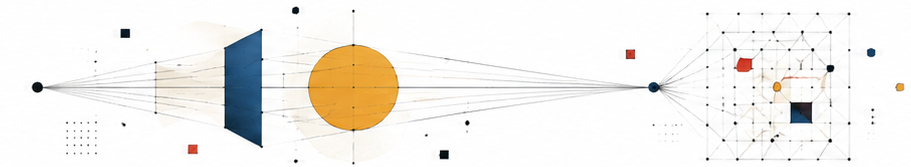
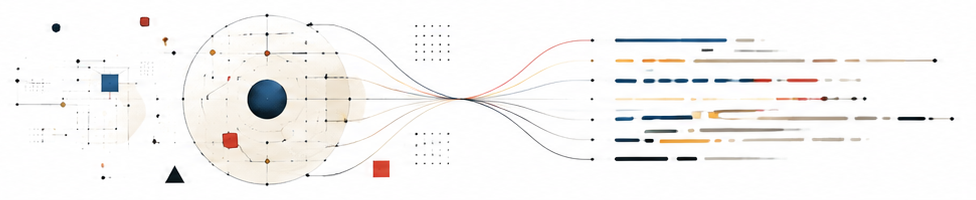
wip

diff --git a/public/css/baseline.css b/public/css/baseline.css
@@ -1,4 +1,4 @@
-/* code-from-spec: ROOT/design/baseline@kC23xGF0SLWkZl5enhkrfUVafqU */
+/* code-from-spec: ROOT/design/baseline@hGOmydZ3eba9B2Kl2lUZ4dQ_2As */
 
 :root {
   --color-text: #1a1a1a;
@@ -32,7 +32,7 @@ h3,
 h4,
 h5,
 h6 {
-  margin-top: 1.2em;
+  margin-top: 1em;
   margin-bottom: 0.5em;
   line-height: 1.3;
 }

diff --git a/code-from-spec/design/default/template/_node.md b/code-from-spec/design/default/template/_node.md
@@ -30,6 +30,7 @@ parts vary.
       <nav>
         <a href="/rationale">Rationale</a>
         <a href="/blog">Blog</a>
+        <a href="/license">License</a>
         <a href="https://github.com/CodeFromSpec" target="_blank" rel="noopener">GitHub</a>
       </nav>
     </div>
@@ -41,17 +42,8 @@ parts vary.
   </main>
   <footer>
     <div class="container">
-      <nav>
-        <a href="/">Home</a>
-        <a href="/rationale">Rationale</a>
-        <a href="/blog">Blog</a>
-        <a href="/license">License</a>
-        <a href="https://github.com/CodeFromSpec" target="_blank" rel="noopener">GitHub</a>
-      </nav>
-      <div class="footer-meta">
-        <span>Contact: <a href="mailto:gustavo@codefromspec.com">gustavo@codefromspec.com</a></span>
-        <span>Licensed under <a href="/license">CC BY 4.0</a></span>
-      </div>
+      <span>Contact: <a href="mailto:gustavo@codefromspec.com">gustavo@codefromspec.com</a></span>
+      <span>Licensed under <a href="/license">CC BY 4.0</a></span>
     </div>
   </footer>
 </body>

diff --git a/code-from-spec/design/default/stylesheet/_node.md b/code-from-spec/design/default/stylesheet/_node.md
@@ -33,11 +33,9 @@ The stylesheet must cover:
 
 3. **Footer** — top border using `var(--color-border)`,
    32px vertical padding, 0.875em font size, muted
-   color. Container is flex column with 8px gap. Nav
-   links have 16px gap, wrap. `.footer-meta` is flex
-   with 16px gap, wrap.
+   color. Container is flex with 16px gap, wrap.
 
-4. **Main** — 10px vertical padding.
+4. **Main** — 20px vertical padding.
 
 5. **Subheading** — `h1 + p` styled at 1.25em, muted
    color.
@@ -62,7 +60,7 @@ The stylesheet must cover:
 10. **Responsive** — at max-width 768px: container
    padding 16px, header stacks vertically
    (flex-direction column, align flex-start, 12px gap),
-   nav wraps (16px gap), main padding 10px 0.
+   nav wraps (16px gap), main padding 20px 0.
 
 Place the artifact tag as a CSS comment on the first
 line.

diff --git a/code-from-spec/design/_node.md b/code-from-spec/design/_node.md
@@ -30,15 +30,9 @@ Values shared across all themes:
 Header links:
 - Rationale → /rationale
 - Blog → /blog
-- GitHub → https://github.com/CodeFromSpec (external)
-
-Footer links:
-- Home → /
-- Rationale → /rationale
-- Blog → /blog
 - License → /license
 - GitHub → https://github.com/CodeFromSpec (external)
 
-Footer meta:
+Footer (no navigation, just meta):
 - Contact: gustavo@codefromspec.com
 - Licensed under CC BY 4.0 → /license
